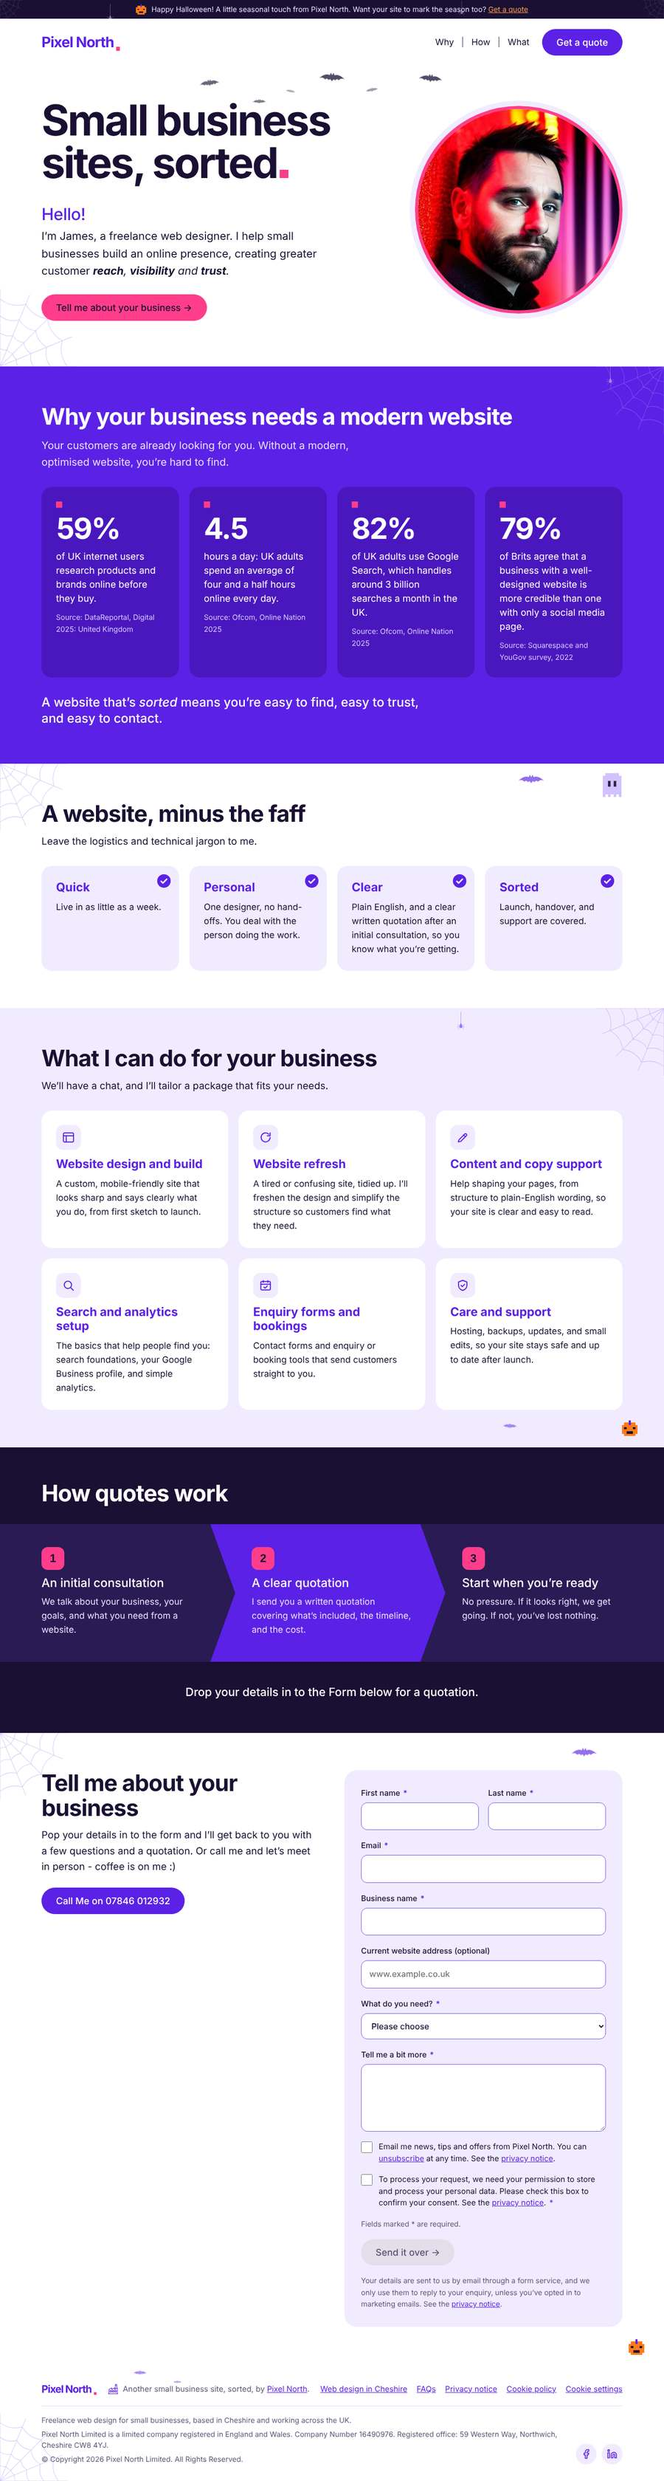
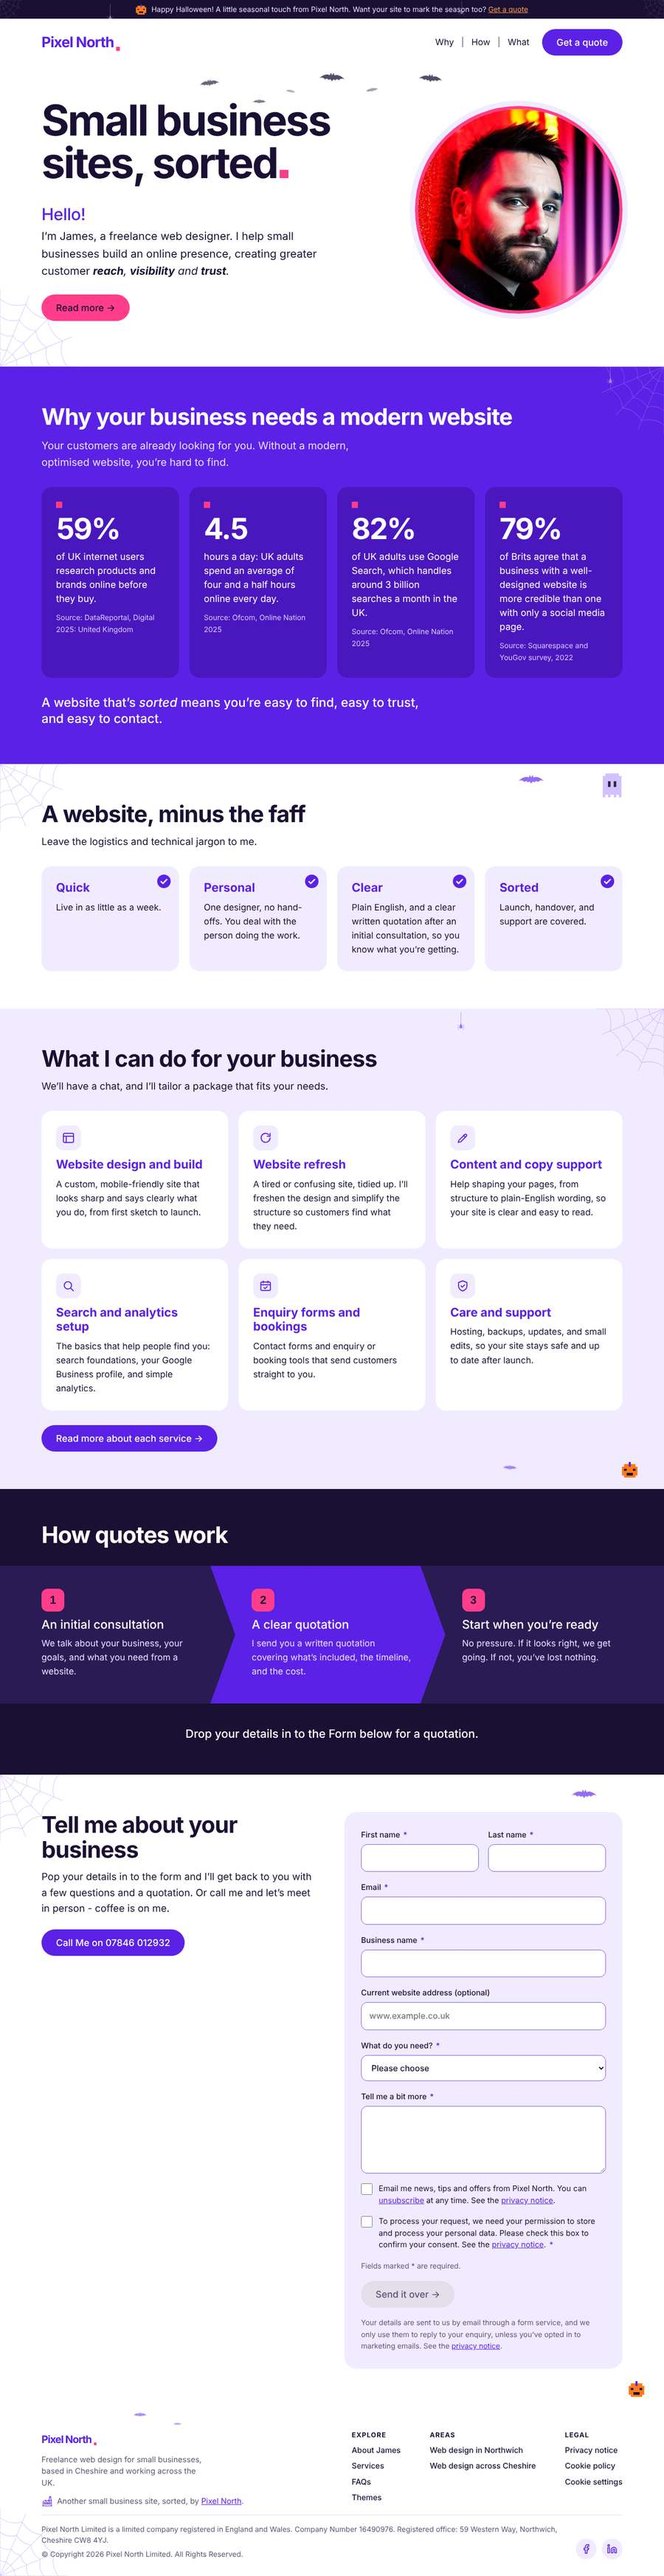
Rebuild theme archives from the current home page; add rebuild script; refresh scrolling previews
Claude-Session: https://claude.ai/code/session_01GYMbxvBkEZ1gFV6AWETGa2

diff --git a/themes/halloween.html b/themes/halloween.html
@@ -8,8 +8,8 @@
 <meta name="color-scheme" content="light">
 <meta name="viewport" content="width=device-width, initial-scale=1, viewport-fit=cover">
 <title>Halloween theme (archive) | Pixel North</title>
-<meta name="description" content="Pixel North designs and builds websites for small businesses. One designer, a clear written quotation, and a site that’s live in as little as a week.">
 <meta name="robots" content="noindex, follow">
+<meta name="description" content="Small business web design from Northwich, Cheshire, across the UK. One designer, a clear written quotation, and a site that’s live in as little as a week.">
 <meta name="theme-color" content="#5B21E6">
 <script>document.documentElement.className+=" js"</script>
 <link rel="preconnect" href="https://fonts.googleapis.com">
@@ -77,7 +77,17 @@ input,select,textarea{font:inherit;font-size:16px;padding:13px 15px;border:1px s
 #note.ok::before{content:"\2713";font-weight:700;margin-right:8px}
 #note.err{background:#FDECEF;border-color:#D64560;color:#7A1F31}
 #note.err a,#note.ok a{color:inherit}
-footer{padding:32px max(24px,calc((100% - 1120px)/2));display:flex;flex-wrap:wrap;gap:12px;justify-content:space-between;align-items:center;color:var(--muted);font-size:15px}
+footer{padding:48px max(24px,calc((100% - 1120px)/2)) 32px;display:grid;grid-template-columns:minmax(0,1fr) repeat(3,minmax(0,max-content));justify-content:start;gap:36px 56px;align-items:start;color:var(--muted);font-size:15px}
+.f-brand{display:flex;flex-direction:column;gap:12px;align-items:flex-start}
+.f-id{display:flex;flex-direction:column;gap:12px;align-items:flex-start}
+.f-id p{margin:0;max-width:34ch;line-height:1.5}
+footer .f-col{display:flex;flex-direction:column;flex-wrap:nowrap;align-items:flex-start;justify-content:flex-start;gap:10px;padding:0}
+.f-h{margin:0 0 2px;font:700 13px/1.2 Outfit,"Segoe UI",system-ui,sans-serif;letter-spacing:.08em;text-transform:uppercase;color:var(--text)}
+footer .f-col a{color:var(--text);text-decoration:none;font-weight:500;line-height:1.35}
+footer .f-col a:hover{color:var(--primary);text-decoration:underline}
+footer .legal{margin-top:-22px;width:0;min-width:100%}
+@media (max-width:860px){footer{grid-template-columns:repeat(3,minmax(0,1fr))}.f-brand{grid-column:1/-1}}
+@media (max-width:560px){footer{grid-template-columns:repeat(2,minmax(0,1fr));padding-top:36px}.f-brand{display:contents}.f-id{grid-column:1/-1;display:flex;flex-direction:column;gap:12px;align-items:flex-start}.f-brand .credit{grid-column:1/-1;order:1}footer .legal{order:2}footer .social{margin-left:auto}}
 .contact{display:flex;flex-wrap:wrap;gap:48px;align-items:flex-start}
 .contact>*{flex:1 1 360px}
 .callme{display:flex;flex-wrap:wrap;align-items:center;gap:10px 16px;margin-top:24px}
@@ -90,6 +100,7 @@ footer{padding:32px max(24px,calc((100% - 1120px)/2));display:flex;flex-wrap:wra
 .hero p,.hero .hello+p{order:4;margin:0}
 .hero .btn{order:5}
 }
+@media (max-width:600px){.portrait{width:240px;max-width:240px;border-width:5px;box-shadow:0 0 0 8px var(--panel)}}
 .js .rv{opacity:0;transform:translateY(14px);transition:opacity .7s ease,transform .7s ease;transition-delay:var(--d,0s)}
 .js .rv.in{opacity:1;transform:none}
 @media (prefers-reduced-motion:reduce){.js .rv{opacity:1;transform:none;transition:none}}
@@ -103,7 +114,7 @@ nav .wm{font-size:24px}
 .req{color:var(--primary);margin-left:2px}
 .alt{background:var(--panel)}
 .alt .card{background:var(--bg)}
-.legal{flex:1 1 100%;display:flex;flex-wrap:wrap;gap:12px 24px;justify-content:space-between;align-items:flex-end;border-top:1px solid #E4DAFF;padding-top:16px;margin-top:4px;font-size:14px;line-height:1.5}
+.legal{grid-column:1/-1;display:flex;flex-wrap:wrap;gap:12px 24px;justify-content:space-between;align-items:flex-end;border-top:1px solid #E4DAFF;padding-top:16px;margin-top:4px;font-size:14px;line-height:1.5}
 .legal-text{display:flex;flex-direction:column;gap:6px;flex:1 1 320px}
 .legal p{margin:0}
 .fb{display:grid;place-items:center;width:40px;height:40px;border-radius:50%;background:var(--panel);color:var(--primary)}
@@ -219,7 +230,7 @@ nav .wm{font-size:24px}
 <h1>Small business sites, sorted<i></i></h1>
 <div class="hello">Hello!</div>
 <p>I’m James, a freelance web designer. I help small businesses build an online presence, creating greater customer <em><strong>reach</strong>, <strong>visibility</strong> and <strong>trust</strong>.</em></p>
-<a class="btn pink" href="#" data-go="contact">Tell me about your business →</a>
+<a class="btn pink" href="/about-james">Read more →</a>
 </div>
 <img class="portrait" src="/images/james.jpg" width="512" height="512" fetchpriority="high" decoding="async" alt="James, the freelance web designer behind Pixel North in Cheshire, lit with red and pink light">
 </header>
@@ -261,6 +272,7 @@ nav .wm{font-size:24px}
 <div class="card" style="flex-basis:320px"><span class="ico"><svg viewBox="0 0 24 24" aria-hidden="true"><rect x="3.5" y="5" width="17" height="15" rx="2"/><path d="M3.5 10h17M8 3.5v3M16 3.5v3"/><path d="M9 15l2 2 4-4"/></svg></span><h3>Enquiry forms and bookings</h3><p>Contact forms and enquiry or booking tools that send customers straight to you.</p></div>
 <div class="card" style="flex-basis:320px"><span class="ico"><svg viewBox="0 0 24 24" aria-hidden="true"><path d="M12 3l7.5 3v5.5c0 4.5-3.1 8-7.5 9.5-4.4-1.5-7.5-5-7.5-9.5V6L12 3z"/><path d="M9 12l2.2 2.2L15.5 10"/></svg></span><h3>Care and support</h3><p>Hosting, backups, updates, and small edits, so your site stays safe and up to date after launch.</p></div>
 </div>
+<p style="margin-top:28px"><a class="btn" href="/services">Read more about each service &rarr;</a></p>
 </section>
 
 <section class="sec flush dark" id="quotes">
@@ -277,7 +289,7 @@ nav .wm{font-size:24px}
 <div class="season-deco" aria-hidden="true"><svg class="web wl" viewBox="0 0 120 120" aria-hidden="true"><path d="M0 0L120.0 0.0M0 0L110.9 45.9M0 0L84.9 84.9M0 0L45.9 110.9M0 0L0.0 120.0M28.0 0.0Q24.2 4.8 25.9 10.7Q20.6 13.7 19.8 19.8Q13.7 20.6 10.7 25.9Q4.8 24.2 0.0 28.0M52.0 0.0Q45.0 9.0 48.0 19.9Q38.2 25.5 36.8 36.8Q25.5 38.2 19.9 48.0Q9.0 45.0 0.0 52.0M78.0 0.0Q67.5 13.4 72.1 29.8Q57.2 38.3 55.2 55.2Q38.3 57.2 29.8 72.1Q13.4 67.5 0.0 78.0M104.0 0.0Q90.0 17.9 96.1 39.8Q76.3 51.0 73.5 73.5Q51.0 76.3 39.8 96.1Q17.9 90.0 0.0 104.0"/></svg><svg class="bat b9" viewBox="0 0 32 16" aria-hidden="true"><path d="M16 5L14.5 2 13 5C11 3.5 6 4 1 9c3-1.2 5-.8 7 1.5 1-1.8 3-1.8 4 .5 1-1.8 3-1.8 4 1.5 1-3.3 3-3.3 4-1.5 1-2.3 3-2.3 4-.5 2-2.3 4-2.7 7-1.5-5-5-10-5.5-12-4L17.5 2z"/></svg><span class="pumpkin pk2" aria-hidden="true"></span></div>
 <div>
 <h2>Tell me about your business</h2>
-<p class="intro" style="margin-bottom:0">Pop your details in to the form and I’ll get back to you with a few questions and a quotation. Or call me and let’s meet in person - coffee is on me :)</p>
+<p class="intro" style="margin-bottom:0">Pop your details in to the form and I’ll get back to you with a few questions and a quotation. Or call me and let’s meet in person - coffee is on me.</p>
 <div class="callme"><a class="btn" href="tel:+447846012932">Call Me on 07846 012932</a></div>
 </div>
 <form id="f">
@@ -293,12 +305,12 @@ nav .wm{font-size:24px}
 <select id="w" name="fi-select-need" required><option value="" selected disabled>Please choose</option><option>A brand new website</option><option>A refresh of my current site</option><option>Not sure yet</option></select>
 </label>
 <label><span>Tell me a bit more <span class="req" aria-hidden="true">*</span></span><textarea id="m" name="fi-text-message" rows="4" required></textarea></label>
-<label class="check"><input id="mk" type="checkbox" name="marketing_emails" value="yes"><span>Email me news, tips and offers from Pixel North. You can <a href="https://pixel-north.co.uk/marketing-unsubscribe" target="_blank" rel="noopener noreferrer" aria-label="unsubscribe (opens in a new tab)">unsubscribe</a> at any time. See the <a href="/privacy.html" target="_blank" rel="noopener noreferrer" aria-label="privacy notice (opens in a new tab)">privacy notice</a>.</span></label>
-<label class="check"><input id="consent" type="checkbox" name="data_consent" value="yes" aria-required="true"><span>To process your request, we need your permission to store and process your personal data. Please check this box to confirm your consent. See the <a href="/privacy.html" target="_blank" rel="noopener noreferrer" aria-label="privacy notice (opens in a new tab)">privacy notice</a>. <span class="req" aria-hidden="true">*</span></span></label>
+<label class="check"><input id="mk" type="checkbox" name="marketing_emails" value="yes"><span>Email me news, tips and offers from Pixel North. You can <a href="https://pixel-north.co.uk/marketing-unsubscribe" target="_blank" rel="noopener noreferrer" aria-label="unsubscribe (opens in a new tab)">unsubscribe</a> at any time. See the <a href="/privacy" target="_blank" rel="noopener noreferrer" aria-label="privacy notice (opens in a new tab)">privacy notice</a>.</span></label>
+<label class="check"><input id="consent" type="checkbox" name="data_consent" value="yes" aria-required="true"><span>To process your request, we need your permission to store and process your personal data. Please check this box to confirm your consent. See the <a href="/privacy" target="_blank" rel="noopener noreferrer" aria-label="privacy notice (opens in a new tab)">privacy notice</a>. <span class="req" aria-hidden="true">*</span></span></label>
 <p style="margin:0;font-size:14px;color:var(--muted)">Fields marked * are required.</p>
 <button class="btn pink" type="submit" style="align-self:flex-start">Send it over →</button>
 <p id="note" role="status"></p>
-<p style="font-size:14px;color:var(--muted)">Your details are sent to us by email through a form service, and we only use them to reply to your enquiry, unless you’ve opted in to marketing emails. See the <a href="https://pixel-north.co.uk/privacy.html" target="_blank" rel="noopener noreferrer" aria-label="privacy notice (opens in a new tab)">privacy notice</a>.</p>
+<p style="font-size:14px;color:var(--muted)">Your details are sent to us by email through a form service, and we only use them to reply to your enquiry, unless you’ve opted in to marketing emails. See the <a href="https://pixel-north.co.uk/privacy" target="_blank" rel="noopener noreferrer" aria-label="privacy notice (opens in a new tab)">privacy notice</a>.</p>
 </form>
 </section>
 
@@ -306,17 +318,24 @@ nav .wm{font-size:24px}
 
 <footer>
 <div class="season-deco" aria-hidden="true"><svg class="web wr" viewBox="0 0 120 120" aria-hidden="true"><path d="M0 0L120.0 0.0M0 0L110.9 45.9M0 0L84.9 84.9M0 0L45.9 110.9M0 0L0.0 120.0M28.0 0.0Q24.2 4.8 25.9 10.7Q20.6 13.7 19.8 19.8Q13.7 20.6 10.7 25.9Q4.8 24.2 0.0 28.0M52.0 0.0Q45.0 9.0 48.0 19.9Q38.2 25.5 36.8 36.8Q25.5 38.2 19.9 48.0Q9.0 45.0 0.0 52.0M78.0 0.0Q67.5 13.4 72.1 29.8Q57.2 38.3 55.2 55.2Q38.3 57.2 29.8 72.1Q13.4 67.5 0.0 78.0M104.0 0.0Q90.0 17.9 96.1 39.8Q76.3 51.0 73.5 73.5Q51.0 76.3 39.8 96.1Q17.9 90.0 0.0 104.0"/></svg><svg class="bat b10" viewBox="0 0 32 16" aria-hidden="true"><path d="M16 5L14.5 2 13 5C11 3.5 6 4 1 9c3-1.2 5-.8 7 1.5 1-1.8 3-1.8 4 .5 1-1.8 3-1.8 4 1.5 1-3.3 3-3.3 4-1.5 1-2.3 3-2.3 4-.5 2-2.3 4-2.7 7-1.5-5-5-10-5.5-12-4L17.5 2z"/></svg><svg class="bat b11" viewBox="0 0 32 16" aria-hidden="true"><path d="M16 5L14.5 2 13 5C11 3.5 6 4 1 9c3-1.2 5-.8 7 1.5 1-1.8 3-1.8 4 .5 1-1.8 3-1.8 4 1.5 1-3.3 3-3.3 4-1.5 1-2.3 3-2.3 4-.5 2-2.3 4-2.7 7-1.5-5-5-10-5.5-12-4L17.5 2z"/></svg></div>
+<div class="f-brand">
+<div class="f-id">
 <span class="wm" style="font-size:20px">Pixel North</span>
+<p>Freelance web design for small businesses, based in Cheshire and working across the UK.</p>
+</div>
 <span class="credit"><svg class="factory" viewBox="0 0 512 512" aria-hidden="true"><path d="M30 464H480"/><path d="M70 464V268L195 205V268L325 205V268L445 205V464"/><path d="M347 250L359 45H413L425 205"/><path d="M362 78H410"/><rect x="120" y="318" width="64" height="64"/><rect x="226" y="318" width="64" height="64"/><rect x="331" y="318" width="64" height="64"/></svg><span>Another small business site, sorted, by <a href="https://pixel-north.co.uk/">Pixel North</a>.</span></span>
-<span style="display:flex;flex-wrap:wrap;gap:6px 18px"><a href="/web-design-cheshire.html">Web design in Cheshire</a><a href="/faq.html">FAQs</a><a href="/privacy.html">Privacy notice</a><a href="/cookies.html">Cookie policy</a><a href="#" data-cookie-settings>Cookie settings</a></span>
+</div>
+<nav class="f-col" aria-label="Explore"><p class="f-h">Explore</p><a href="/about-james">About James</a><a href="/services">Services</a><a href="/faq">FAQs</a><a href="/themes">Themes</a></nav>
+<nav class="f-col" aria-label="Areas we cover"><p class="f-h">Areas</p><a href="/web-designer-northwich">Web design in Northwich</a><a href="/web-design-cheshire">Web design across Cheshire</a></nav>
+<nav class="f-col" aria-label="Legal"><p class="f-h">Legal</p><a href="/privacy">Privacy notice</a><a href="/cookies">Cookie policy</a><a href="#" data-cookie-settings>Cookie settings</a></nav>
 <div class="legal">
 <div class="legal-text">
-<p>Freelance web design for small businesses, based in Cheshire and working across the UK.</p>
 <p>Pixel North Limited is a limited company registered in England and Wales. Company Number 16490976. Registered office: 59 Western Way, Northwich, Cheshire CW8 4YJ.</p>
 <p>© Copyright 2026 Pixel North Limited. All Rights Reserved.</p>
 </div>
 <div class="social"><a class="fb" href="https://www.facebook.com/profile.php?id=61595794411993&amp;locale=en_GB" target="_blank" rel="noopener noreferrer" aria-label="Pixel North on Facebook (opens in a new tab)"><svg viewBox="0 0 24 24" aria-hidden="true"><path d="M18 2h-3a5 5 0 0 0-5 5v3H7v4h3v8h4v-8h3l1-4h-4V7a1 1 0 0 1 1-1h3z"/></svg></a><a class="fb" href="https://www.linkedin.com/company/pixel-north/" target="_blank" rel="noopener noreferrer" aria-label="Pixel North on LinkedIn (opens in a new tab)"><svg viewBox="0 0 24 24" aria-hidden="true"><path d="M16 8a6 6 0 0 1 6 6v7h-4v-7a2 2 0 0 0-2-2 2 2 0 0 0-2 2v7h-4v-7a6 6 0 0 1 6-6z"/><rect x="2" y="9" width="4" height="12"/><circle cx="4" cy="4" r="2"/></svg></a></div>
 </div>
+
 </footer>
 
 <script>

diff --git a/themes/bonfire.html b/themes/bonfire.html
@@ -330,7 +330,7 @@ nav .wm{font-size:24px}
 </div>
 <span class="credit"><svg class="factory" viewBox="0 0 512 512" aria-hidden="true"><path d="M30 464H480"/><path d="M70 464V268L195 205V268L325 205V268L445 205V464"/><path d="M347 250L359 45H413L425 205"/><path d="M362 78H410"/><rect x="120" y="318" width="64" height="64"/><rect x="226" y="318" width="64" height="64"/><rect x="331" y="318" width="64" height="64"/></svg><span>Another small business site, sorted, by <a href="https://pixel-north.co.uk/">Pixel North</a>.</span></span>
 </div>
-<nav class="f-col" aria-label="Explore"><p class="f-h">Explore</p><a href="/about-james">About James</a><a href="/services">Services</a><a href="/faq">FAQs</a></nav>
+<nav class="f-col" aria-label="Explore"><p class="f-h">Explore</p><a href="/about-james">About James</a><a href="/services">Services</a><a href="/faq">FAQs</a><a href="/themes">Themes</a></nav>
 <nav class="f-col" aria-label="Areas we cover"><p class="f-h">Areas</p><a href="/web-designer-northwich">Web design in Northwich</a><a href="/web-design-cheshire">Web design across Cheshire</a></nav>
 <nav class="f-col" aria-label="Legal"><p class="f-h">Legal</p><a href="/privacy">Privacy notice</a><a href="/cookies">Cookie policy</a><a href="#" data-cookie-settings>Cookie settings</a></nav>
 <div class="legal">

diff --git a/themes/remembrance.html b/themes/remembrance.html
@@ -315,7 +315,7 @@ nav .wm{font-size:24px}
 </div>
 <span class="credit"><svg class="factory" viewBox="0 0 512 512" aria-hidden="true"><path d="M30 464H480"/><path d="M70 464V268L195 205V268L325 205V268L445 205V464"/><path d="M347 250L359 45H413L425 205"/><path d="M362 78H410"/><rect x="120" y="318" width="64" height="64"/><rect x="226" y="318" width="64" height="64"/><rect x="331" y="318" width="64" height="64"/></svg><span>Another small business site, sorted, by <a href="https://pixel-north.co.uk/">Pixel North</a>.</span></span>
 </div>
-<nav class="f-col" aria-label="Explore"><p class="f-h">Explore</p><a href="/about-james">About James</a><a href="/services">Services</a><a href="/faq">FAQs</a></nav>
+<nav class="f-col" aria-label="Explore"><p class="f-h">Explore</p><a href="/about-james">About James</a><a href="/services">Services</a><a href="/faq">FAQs</a><a href="/themes">Themes</a></nav>
 <nav class="f-col" aria-label="Areas we cover"><p class="f-h">Areas</p><a href="/web-designer-northwich">Web design in Northwich</a><a href="/web-design-cheshire">Web design across Cheshire</a></nav>
 <nav class="f-col" aria-label="Legal"><p class="f-h">Legal</p><a href="/privacy">Privacy notice</a><a href="/cookies">Cookie policy</a><a href="#" data-cookie-settings>Cookie settings</a></nav>
 <div class="legal">

diff --git a/tools/rebuild-theme-archives.py b/tools/rebuild-theme-archives.py
@@ -1,0 +1,57 @@
+#!/usr/bin/env python3
+"""Rebuild the archived theme pages (themes/*.html) from the CURRENT index.html.
+
+Each archive keeps its own theme (CSS block, body tag, banner and decorations)
+but picks up everything else from the live home page, so the archives never
+fall behind (footer, buttons, wording, layout).
+
+Run from the repo root:  python3 tools/rebuild-theme-archives.py
+Before changing the live theme, first archive the OLD theme:
+  python3 tools/rebuild-theme-archives.py --new <name> --title "<Display name>"
+(this reads the theme currently in index.html and writes themes/<name>.html).
+"""
+import re, sys, glob, os
+
+def parts(html):
+    css = re.search(r'\.season-strip\{display:none\}.*?(?=\n</style>)', html, re.S).group(0)
+    body = re.search(r'<body data-season="[^"]*">\n<!--.*?-->\n<div class="season-strip".*?</div>\n', html, re.S).group(0)
+    decos = re.findall(r'<div class="season-deco" aria-hidden="true">.*?</div>', html, re.S)
+    assert len(decos) == 6, len(decos)
+    return css, body, decos
+
+def archive_comment(html):
+    m = re.search(r'<!-- ARCHIVED THEME.*?-->\n', html)
+    return m.group(0) if m else ''
+
+def build(index, theme_src, title, comment):
+    css, body, decos = parts(theme_src)
+    ncss, nbody, ndecos = parts(index)
+    s = index
+    s = s.replace(ncss, css, 1).replace(nbody, body, 1)
+    for old, new in zip(ndecos, decos):
+        s = s.replace(old, new, 1)
+    s = re.sub(r'<title>.*?</title>', f'<title>{title} theme (archive) | Pixel North</title>\n<meta name="robots" content="noindex, follow">', s, 1, flags=re.S)
+    s = re.sub(r'<link rel="canonical"[^>]*>\n', '', s)
+    s = re.sub(r'<meta (property="og:|name="twitter:)[^>]*>\n', '', s)
+    s = re.sub(r'<meta name="robots" content="index[^>]*>\n', '', s)
+    s = re.sub(r'<script type="application/ld\+json">.*?</script>\n', '', s, flags=re.S)
+    s = re.sub(r'(href|src)="(about-james|services|faq|themes|web-designer-northwich|web-design-cheshire|privacy|cookies|free-website-terms|consent-config\.js|consent\.js|images/james\.jpg)([#"?])', r'\1="/\2\3', s)
+    s = s.replace('</head>\n', '</head>\n' + comment, 1)
+    return s
+
+def main():
+    index = open('index.html').read()
+    args = sys.argv[1:]
+    if '--new' in args:
+        name = args[args.index('--new') + 1]
+        title = args[args.index('--title') + 1]
+        cm = f'<!-- ARCHIVED THEME: the {title} 2026 home page, kept as a copy for the Pixel North themes portfolio. Not indexed. The live home page is /index.html. -->\n'
+        open(f'themes/{name}.html', 'w').write(build(index, index, title, cm))
+        print('wrote', name); return
+    for p in sorted(glob.glob('themes/*.html')):
+        old = open(p).read()
+        title = re.search(r'<title>(.*?) theme \(archive\)', old).group(1)
+        open(p, 'w').write(build(index, old, title, archive_comment(old)))
+        print('rebuilt', p)
+
+main()
